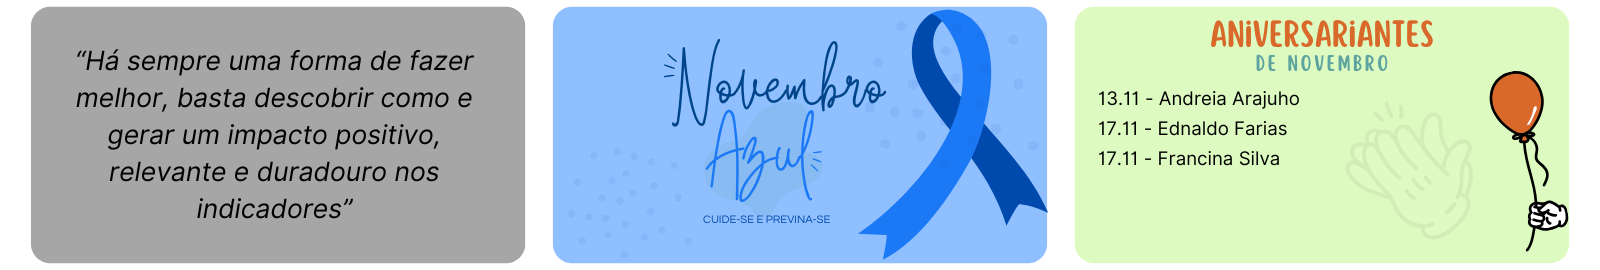
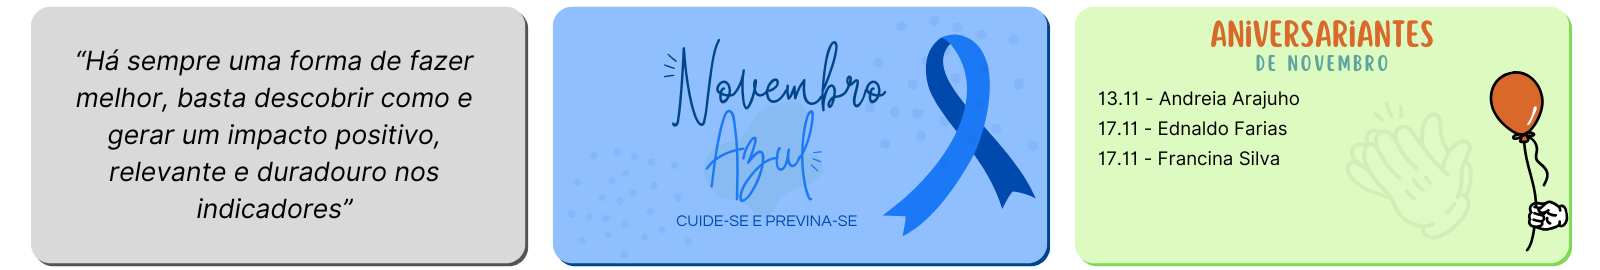
adição do card no site

diff --git a/index.html b/index.html
@@ -8,7 +8,7 @@
     <meta name="viewport" content="width=device-width, initial-scale=1.0">
 
     <link rel="icon" href="img/Logo.png">
-    <title>PM TV WEB</title>
+    <title>PM-TV | WEB</title>
     <meta name="description" content="Informativos" />
 
     <link rel="stylesheet" href="styles.css">
@@ -24,13 +24,15 @@
             </iframe>
         </div>
         <div class="containerSite">
-            <iframe class="site" frameborder="0" allowFullScreen="true" scrolling="no"
-                src="https://cieam.com.br/"></iframe>
-            </iframe>
+            <div class="cardSite">
+                <iframe class="site" frameborder="0" allowFullScreen="true" scrolling="no"
+                    src="https://cieam.com.br/">
+                </iframe>
+            </div>
         </div>
-        
+
     </div>
-    
+
     <div class="containerBanner">
         <img src="img/Banner.png">
     </div>

diff --git a/styles.css b/styles.css
@@ -22,13 +22,23 @@ body {
 .containerSite {
   width: 30%;
   overflow: hidden;
+  /* background-color: red; */
+}
+
+.cardSite {
+  margin-top: 2%;
+  width: 98%;
+  height: 96%;
+  overflow: hidden;
+  border-radius: 15px;
+  box-shadow: 3px 3px 10px  rgba(0, 0, 0, 0.3);
 }
 
 .site {
   margin-top: -140px;
   width: 100%;
   height: 150%;
-  zoom: 0.7;
+  zoom: 0.65;
 }
 
 .containerBanner {
